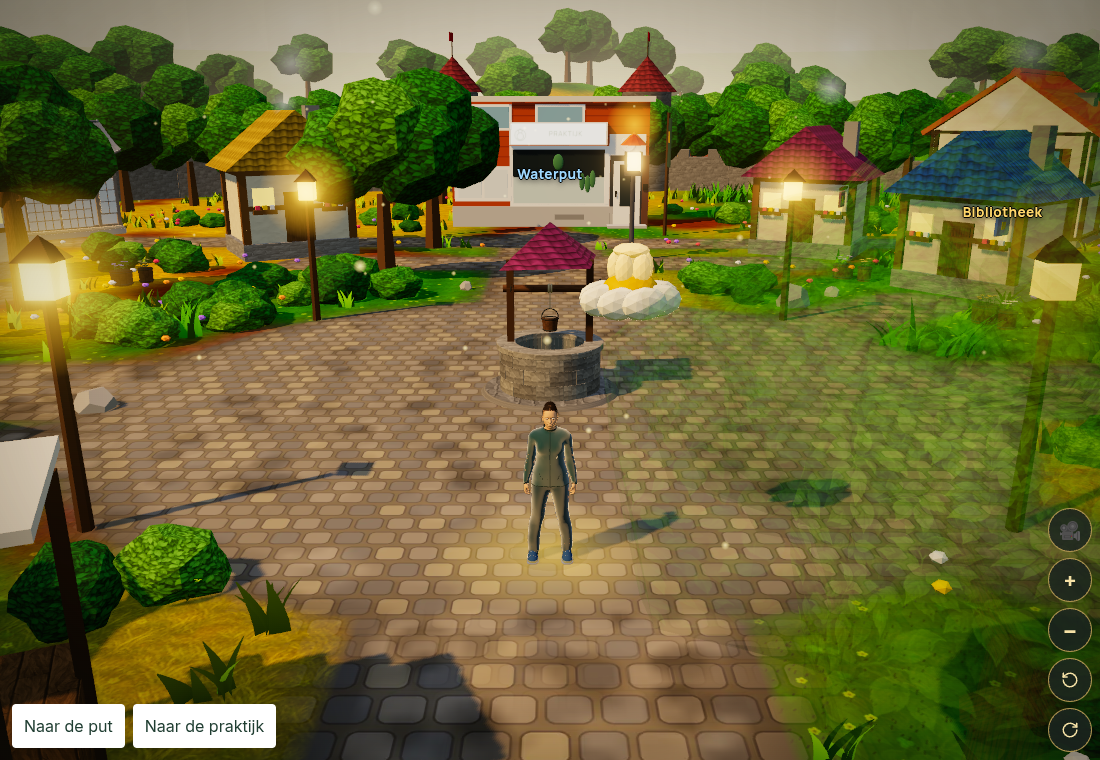
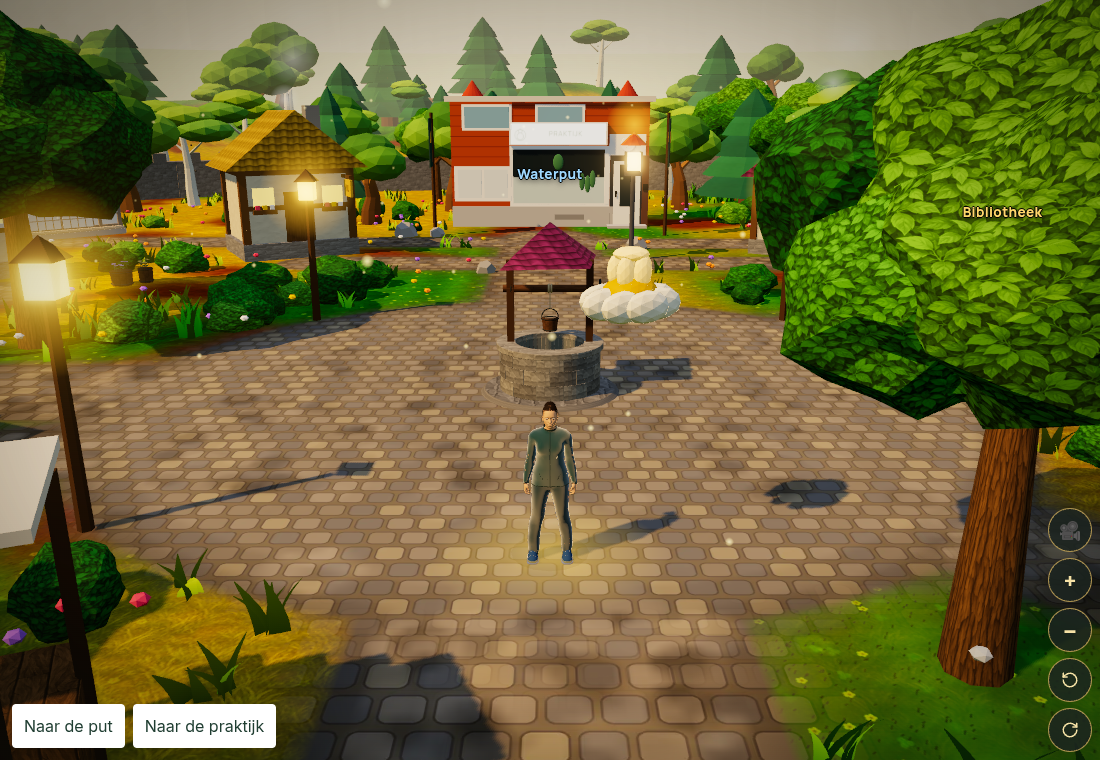
Review village polish with latest scenery on desktop and mobile

diff --git a/e2e/village-scenery.spec.ts b/e2e/village-scenery.spec.ts
@@ -45,11 +45,14 @@ test('a street corner shows the bench and flowers in their existing footprint',a
   await page.route('**/api/**',route=>route.fulfill({json:{}}));
   await page.addInitScript(()=>localStorage.setItem('fp.village.fx','off'));
   await page.setViewportSize({width:1100,height:760});
-  await page.goto('/village-review.html?view=inn');
+  await page.goto('/village-review.html?view=stables');
   const village=page.getByTestId('walk-village');
   await expect(village).toHaveAttribute('data-hero','model',{timeout:60000});
   await expect(village).toHaveAttribute('data-ground','painted',{timeout:60000});
   await page.waitForLoadState('networkidle');
+  // Use the real camera control to see the bench beside the hero instead of directly behind her.
+  await page.getByRole('button',{name:'Draai naar links',exact:true}).press('Enter');
+  await expect(village).toHaveAttribute('data-cam','-0.79',{timeout:20000});
   await capture(page,(process.env.FP_VILLAGE_REVIEW_LABEL??'review')+'-doorstep');
 });
 

diff --git a/web/src/village-review.tsx b/web/src/village-review.tsx
@@ -23,9 +23,9 @@ const buildings:Building[]=[
 function Review(){
   const api=useRef<WorldApi|null>(null);
   const [arrival,setArrival]=useState(''),[zone,setZone]=useState('village');
-  const inn=TOWN_HOUSES.find(h=>h.key==='inn')!;
-  const startAt=new URLSearchParams(window.location.search).get('view')==='inn'
-    ? placeAt(inn.at.x,inn.at.z,2.1*(inn.scale??1)).door : {x:0,z:4.5};
+  // An open stretch by the stables keeps the street furniture in view, clear of the houses.
+  const startAt=new URLSearchParams(window.location.search).get('view')==='stables'
+    ? {x:8.2,z:12.8} : {x:0,z:4.5};
   return <main className="h-dvh w-full bg-[#e9e2d2]"><h1 className="sr-only">Dorpscontrole met synthetische avatar</h1>
     <WalkVillage3D buildings={buildings} plan startAt={startAt} home={{stage:3,label:'Testhuis'}} well people={false}
       look={{...DEFAULT_LOOK,frame:'f',build:'average',hair:'bun',gear:['tracksuit','balance_shoes']}}

diff --git a/docs/village-review/README.md b/docs/village-review/README.md
@@ -32,11 +32,13 @@ Dezelfde productie-renderer, gebouwen en dorpsindeling worden gebruikt.
 | --- | --- | --- |
 | ![Dorpsplein](polished-desktop.png) | ![Mobiel dorp](polished-mobile.png) | ![Waterput](polished-well-detail.png) |
 
-![Bloemenbak en bank bij de herberg](polished-doorstep.png)
+![Bloemenbak en bank bij de stallen](polished-doorstep.png)
 
 ![Normale kleurcorrectie](polished-graded.png)
 
 De oorspronkelijke beelden van vóór deze wijziging staan in het artefact van
 [de nulmeting](https://github.com/deveritzhub/Fp-exercise/actions/runs/43930065700).
+De nulmeting is gemaakt op `b75b6ce`; de uiteindelijke beelden bevatten ook de inmiddels
+verschenen bomen en poorten uit PR #91 (`db3c303`). Die assets behoren tot die eerdere wijziging.
 Lokaal herhalen: `FP_VILLAGE_REVIEW_LABEL=polished npx playwright test -c playwright.village-review.config.ts`.
 De statische decoratie voegt zelf geen beweging toe; de browsercontrole gebruikt reduced motion.
